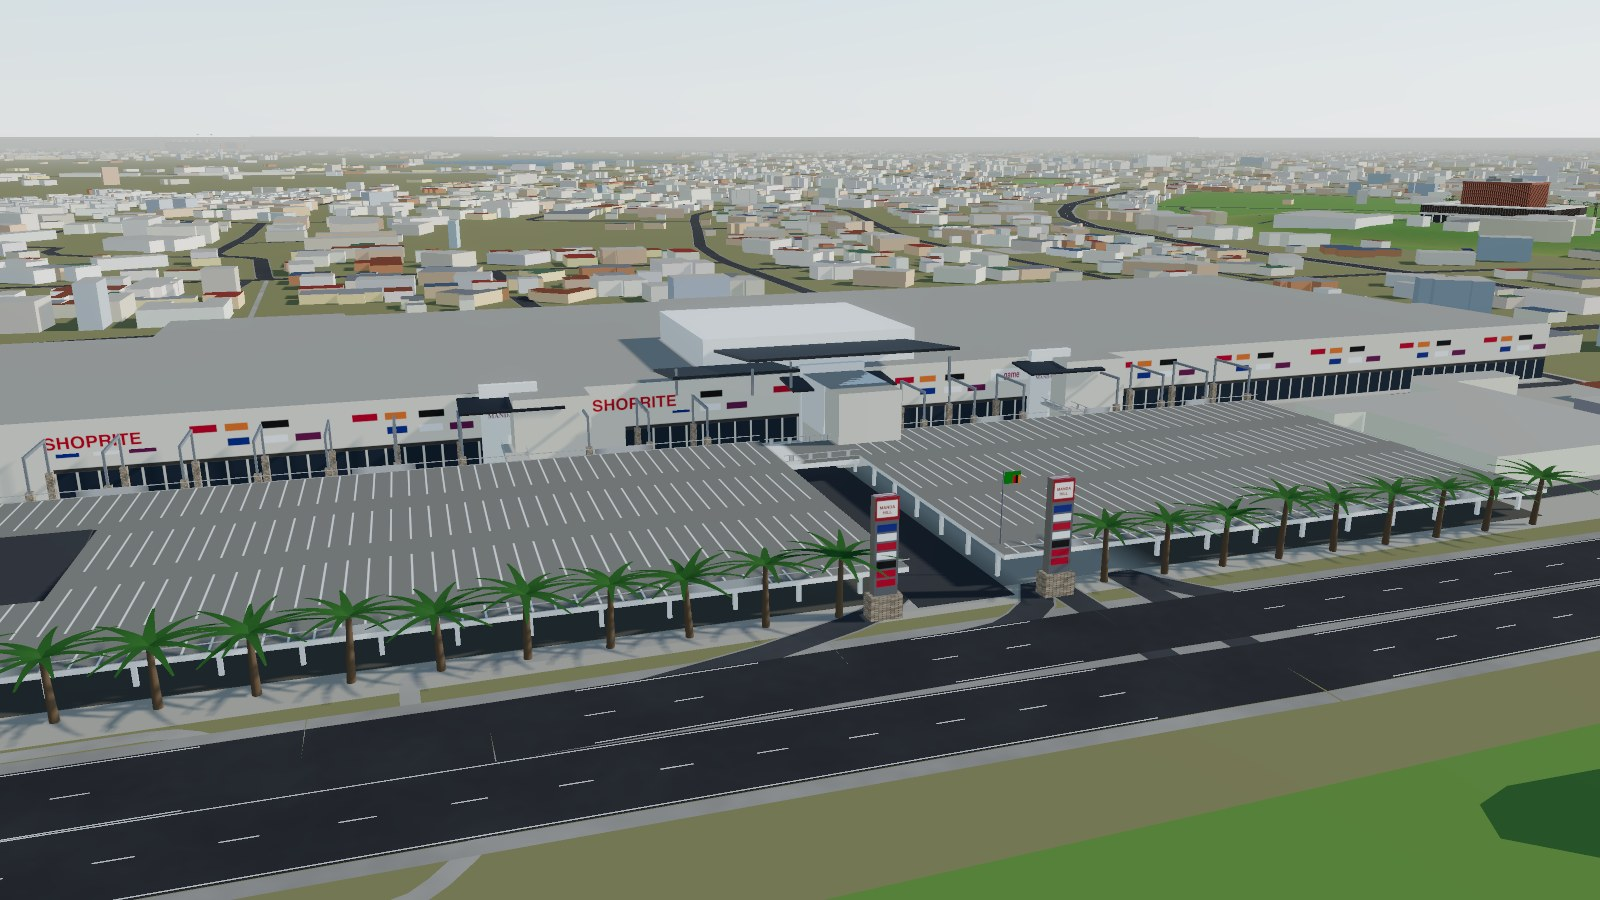
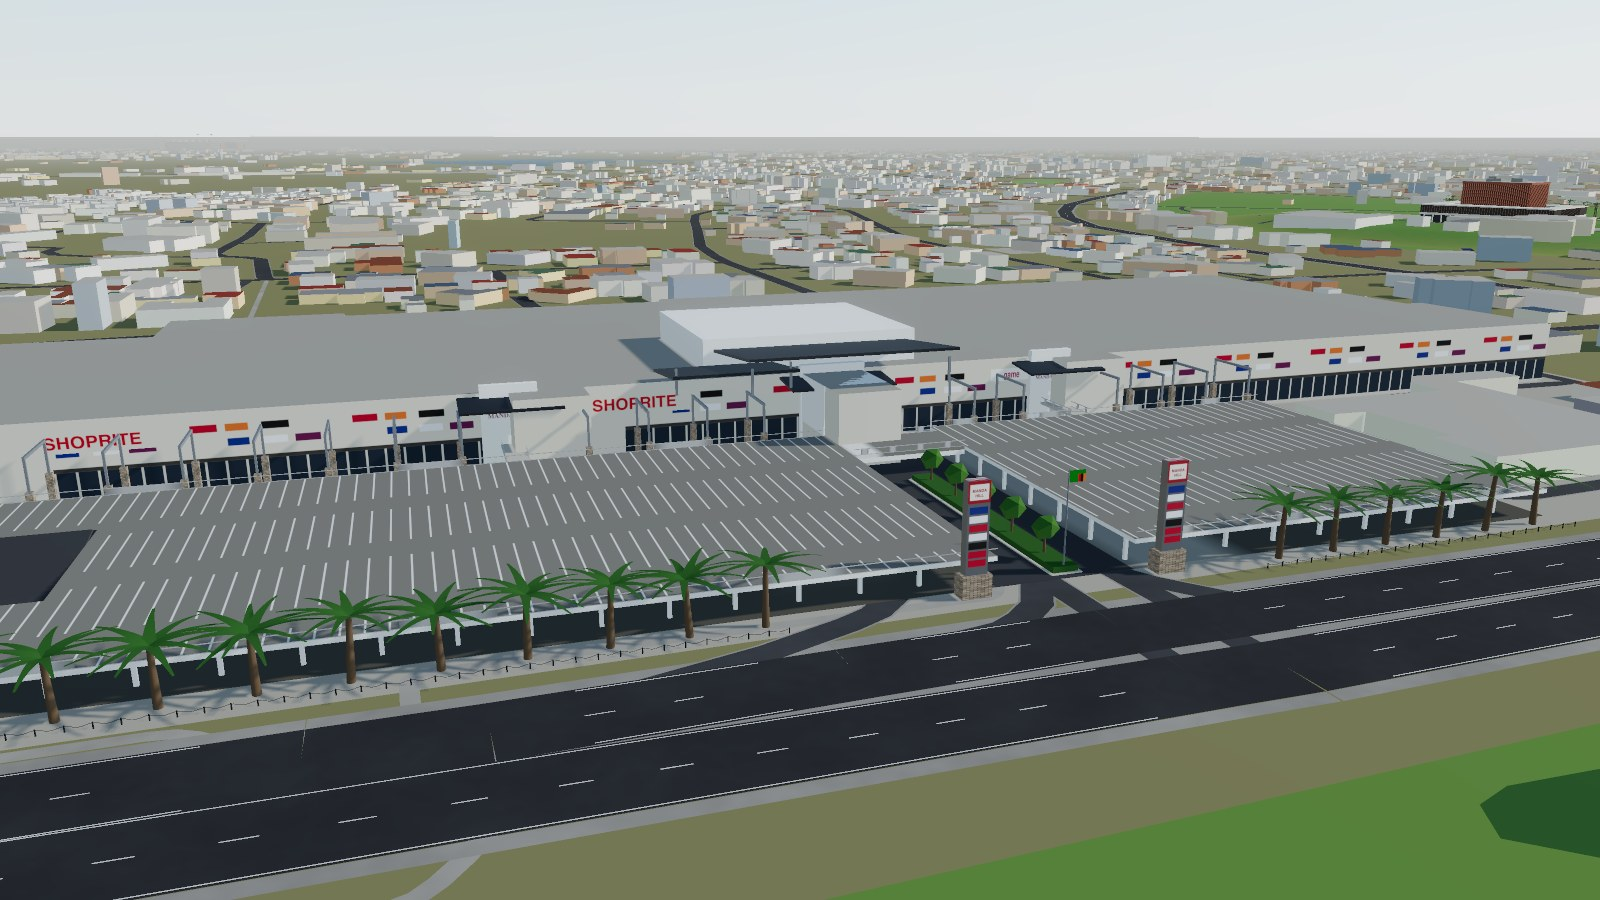
Manda Hill: put the entrance drive where it is
The drive sat 15 m off, over part of the west deck. Trace it from the
aerial onto OSM's in and out lanes, with the planted median, flag and
pylons between and beside them, and leave the fence and palms open where
the slip roads curve out to Great East Road.

diff --git a/src/landmarks/manda-hill.js b/src/landmarks/manda-hill.js
@@ -27,9 +27,11 @@ const FACADE_W = 357; // the shopfront panel along the front
 const FRAME = { x: -190.2, z: 619.4, bearing: 139 };
 const STREET = 13; // the street along the front: v 0..STREET
 const DECK = 4.2; // deck level: cars park beneath
-const DECKS = [[-165, -15], [-2, 88]]; // u ranges; v from STREET to DECK_V
+const DECKS = [[-165, -3], [17, 88]]; // u ranges; v from STREET to DECK_V (aerial)
 const DECK_V = 77;
-const DRIVE = [-15, -2];
+const DRIVE = [-3, 17]; // in and out lanes (OSM ways 369606711, 405672369) and a planted median
+const MEDIAN = [5.5, 10, 30]; // u0, u1, v start
+const GATE = [-32, 34]; // no fence or palms here: the slip roads curve out to Great East Road
 const RAMP = [[-135, 30], [-112, 56]]; // opening in the south-west deck, ramp down
 const ATRIUM = [[-20, -44], [22, -6]]; // u/v corners; white box to 19 m
 const MAIN = [-3.3, 8.5]; // main entrance block (OSM), bridged over the street
@@ -280,7 +282,23 @@ export function buildMandaHill() {
 
   // entrance drive between the decks, and the bridge joining the two top
   // car parks over it, near the mall
-  put(f, box(DRIVE[0], STREET, DRIVE[1], DECK_V + 3, 0, 0.14, asphalt), 'med', { cast: false });
+  put(f, box(DRIVE[0], STREET, DRIVE[1], DECK_V, 0, 0.14, asphalt), 'med', { cast: false });
+  {
+    // the planted median down the drive: kerbed hedge and round trees
+    const [m0, m1, mv] = MEDIAN;
+    put(f, box(m0, mv, m1, DECK_V - 1, 0, 0.3, paving), 'med');
+    put(f, box(m0 + 0.4, mv + 0.4, m1 - 0.4, DECK_V - 1.4, 0.3, 1.1, new THREE.MeshStandardMaterial({ color: 0x3f6b2a, roughness: 1 })), 'high');
+    const trunk = new THREE.MeshStandardMaterial({ color: 0x6e5a45, roughness: 1 });
+    const leaf = new THREE.MeshStandardMaterial({ color: 0x4b7a2e, roughness: 1, flatShading: true });
+    for (let v = mv + 4; v < DECK_V - 3; v += 9) {
+      const t = new THREE.Mesh(new THREE.CylinderGeometry(0.15, 0.2, 2.6, 6), trunk);
+      t.position.set((m0 + m1) / 2, 2.4, v);
+      const c = new THREE.Mesh(new THREE.IcosahedronGeometry(1.9, 0), leaf);
+      c.position.set((m0 + m1) / 2, 4.6, v);
+      put(f, t, 'med');
+      put(f, c, 'med');
+    }
+  }
   put(f, box(DRIVE[0], STREET + 3, DRIVE[1], STREET + 14, DECK - 0.6, DECK, top), 'high');
   put(f, box(DRIVE[0], STREET + 13.4, DRIVE[1], STREET + 14, DECK - 1.4, DECK - 0.6, white), 'high'); // edge beam
   rail(DRIVE[0], DRIVE[1], STREET + 3, DECK);
@@ -288,14 +306,14 @@ export function buildMandaHill() {
   // gate: sign pylons, the flagpole, palms along the road
   const signMat = new THREE.MeshStandardMaterial({ map: signTex(), roughness: 0.6 });
   const base = new THREE.MeshStandardMaterial({ color: 0x8c8479, roughness: 0.95 });
-  for (const u of [DRIVE[0] - 5, DRIVE[1] + 5]) {
+  for (const u of [DRIVE[0] - 4, DRIVE[1] + 4]) {
     const body = new THREE.Mesh(new THREE.BoxGeometry(3, 12, 1.4), [base, base, signMat, signMat, signMat, signMat]);
-    body.position.set(u, 3 + 6, DECK_V + 4);
+    body.position.set(u, 3 + 6, DECK_V + 1.5);
     put(f, body, 'high');
-    put(f, box(u - 2, DECK_V + 2.8, u + 2, DECK_V + 5.2, 0, 3, stone), 'high');
+    put(f, box(u - 2, DECK_V + 0.3, u + 2, DECK_V + 2.7, 0, 3, stone), 'high');
   }
   const pole = new THREE.Mesh(new THREE.CylinderGeometry(0.08, 0.14, 14, 8), steel);
-  pole.position.set(DRIVE[1] + 1.5, 7, DECK_V - 4);
+  pole.position.set((MEDIAN[0] + MEDIAN[1]) / 2, 7, DECK_V - 2);
   put(f, pole, 'med');
   const flag = new THREE.Mesh(new THREE.PlaneGeometry(2.4, 1.6), new THREE.MeshStandardMaterial({
     map: canvasTex(96, 64, (g, w, h) => {
@@ -303,14 +321,14 @@ export function buildMandaHill() {
       for (const [i, c] of ['#de2010', '#111', '#ef7d00'].entries()) { g.fillStyle = c; g.fillRect(w * 0.55 + i * w * 0.15, h * 0.35, w * 0.15, h * 0.65); }
     }, { repeat: false }), side: THREE.DoubleSide,
   }));
-  flag.position.set(DRIVE[1] + 2.75, 13, DECK_V - 4);
+  flag.position.set((MEDIAN[0] + MEDIAN[1]) / 2 + 1.25, 13, DECK_V - 2);
   put(f, flag, 'med', { cast: false });
   // short bollards linked by a sagging chain along the road edge, in front
   // of the palms (founder's description), either side of the drive
   const FENCE_V = DECK_V + 5.2, SPAN = 2.4, POST_H = 0.75;
   const posts = [];
   const chainMat = new THREE.MeshStandardMaterial({ color: 0x3b3d40, roughness: 0.5, metalness: 0.6 });
-  for (const [u0, u1] of [[DECKS[0][0], DRIVE[0] - 7], [DRIVE[1] + 7, DECKS[1][1]]]) {
+  for (const [u0, u1] of [[DECKS[0][0], GATE[0]], [GATE[1], DECKS[1][1]]]) {
     const n = Math.round((u1 - u0) / SPAN), pts = [];
     for (let i = 0; i <= n; i++) {
       const u = u0 + ((u1 - u0) * i) / n;
@@ -328,7 +346,7 @@ export function buildMandaHill() {
   const make = palmFactory();
   const r = rng(29);
   for (let u = -160; u <= 86; u += 9) {
-    if (u > DRIVE[0] - 8 && u < DRIVE[1] + 8) continue;
+    if (u > GATE[0] - 2 && u < GATE[1] + 2) continue;
     const p = make(6.5 + r() * 2, r);
     p.scale.set(1.3, 1, 1.3);
     p.position.set(u, 0, DECK_V + 2.5);

diff --git a/docs/landmarks/manda-hill.md b/docs/landmarks/manda-hill.md
@@ -30,7 +30,7 @@ redeveloped and extended in 2013–16. Model: `src/landmarks/manda-hill.js`.
 | Front | a street 13 m wide at ground level along the whole front; shopfronts at street level under a beige band of brand signs (SHOPRITE in large red letters twice, Game); steel portal frames every 10 m on stone-clad pillars across the street | high form (photos), medium sizes |
 | Entrances | white faces with the logo at the four OSM entrance points, each with a sloping steel canopy; the main one a white block bridged over the street, under two dark sloping sun-roofs; footbridges from the decks to the side entrances and across the drive | high form, medium sizes |
 | Parking decks | two levels: a ground car park and a top car park on a 0.6 m slab at 4.2 m, carried on columns every ~8 m, from the street to 77 m out; the two top car parks are joined by an 11 m bridge over the entrance drive near the mall; ramp opening in the south-west deck; rails on both edges | medium (aerial, drone and photos) |
-| Gate | two sign pylons 12 m on stone bases either side of the drive, the national flag, palms along the road with a low fence of short bollards linked by chain in front of them (founder) | high form, medium positions |
+| Gate | the drive between the decks (traced from the aerial): an in lane and an out lane (OSM ways 369606711, 405672369) with a kerbed median of hedge and round trees and the national flag, curving slip roads onto Great East Road; two sign pylons 12 m on stone bases either side; palms along the road with a low fence of short bollards linked by chain (founder), open at the gate | high form, medium positions |
 
 ## Known gaps
 
